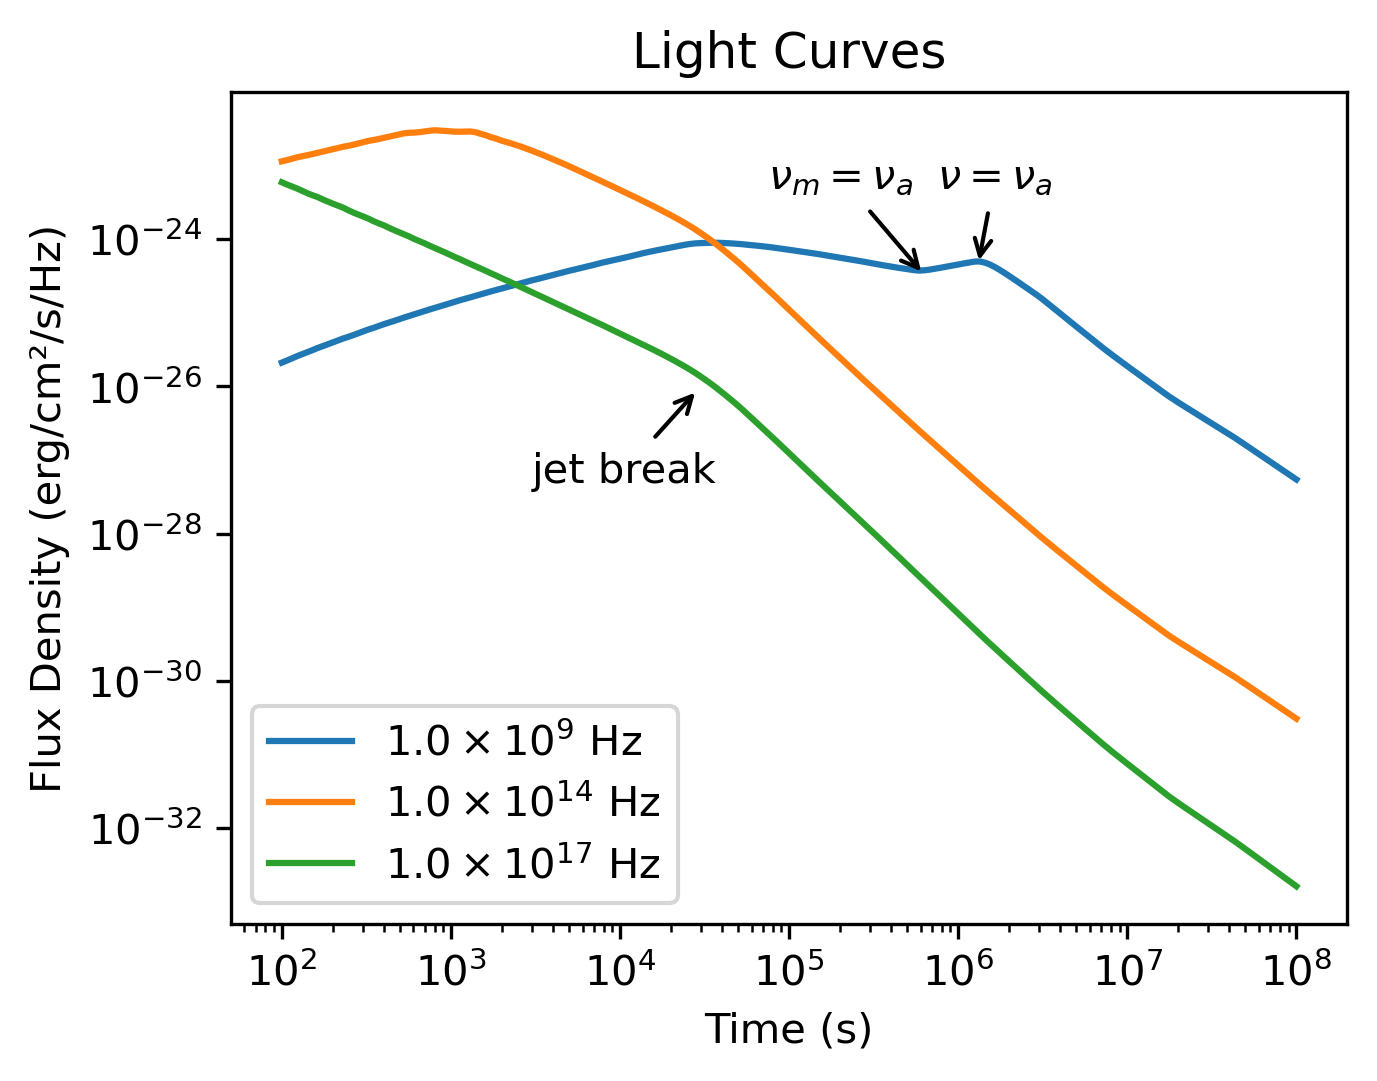
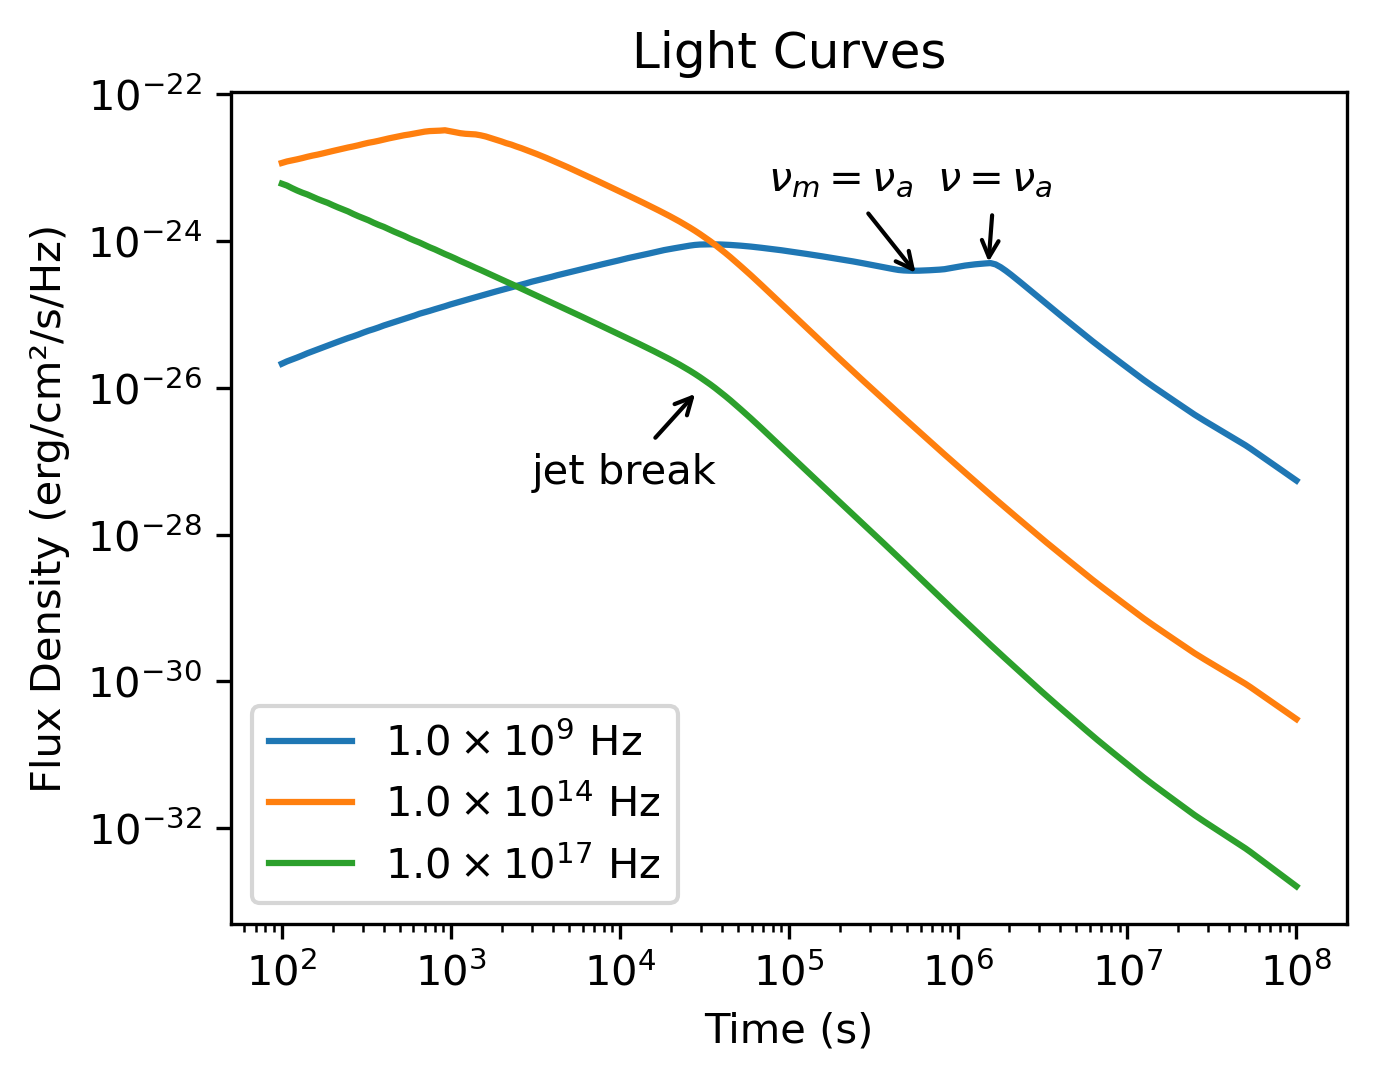
update docs

diff --git a/docs/source/quickstart.rst b/docs/source/quickstart.rst
@@ -75,10 +75,12 @@ Now, let's compute and plot multi-wavelength light curves to see how the aftergl
         plt.loglog(times, results['syn'][i,:], label=fr'${base:.1f} \times 10^{{{exp}}}$ Hz')
 
     # 6. Add annotations for important transitions
-    plt.annotate('jet break', xy=(3e4, 1e-26), xytext=(3e3, 5e-28), 
-                arrowprops=dict(arrowstyle='->'))
-    plt.annotate(r'$\nu_m=\nu_a$', xy=(3e5, 3e-25), xytext=(5.5e4, 5e-24), 
-                arrowprops=dict(arrowstyle='->'))
+    def add_note(plt):
+        plt.annotate('jet break',xy=(3e4, 1e-26), xytext=(3e3, 5e-28), arrowprops=dict(arrowstyle='->'))
+        plt.annotate(r'$\nu_m=\nu_a$',xy=(6e5, 3e-25), xytext=(7.5e4, 5e-24), arrowprops=dict(arrowstyle='->'))
+        plt.annotate(r'$\nu=\nu_a$',xy=(1.5e6, 4e-25), xytext=(7.5e5, 5e-24), arrowprops=dict(arrowstyle='->'))
+
+    add_note(plt)
     
     plt.xlabel('Time (s)')
     plt.ylabel('Flux Density (erg/cm²/s/Hz)')

diff --git a/docs/source/installation.rst b/docs/source/installation.rst
@@ -15,6 +15,10 @@ VegasAfterglow requires the following to build:
   * **macOS**: Apple Clang 13+ (with Xcode 13+) or GCC 10+ (via Homebrew)
   * **Windows**: MSVC 19.29+ (Visual Studio 2019 16.10+) or MinGW-w64 with GCC 10+
 
+* **CMake 3.15+**:
+  
+  * Required for building the python package from source
+
 * **Build tools**:
 
   * Make (GNU Make 4.0+ recommended) [if you want to compile & run the C++ code]
